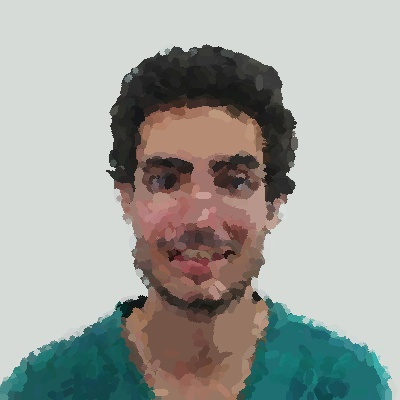
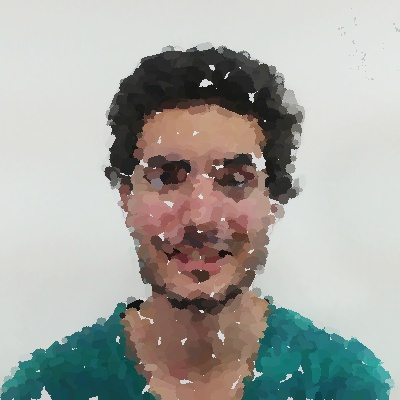
camera control

diff --git a/VisualFeedback/VisualFeedback/CameraControl.cpp b/VisualFeedback/VisualFeedback/CameraControl.cpp
@@ -1,0 +1,59 @@
+#include "FuncDeclaration.h"
+
+//static void onMouse(int event, int x, int y, int f, void* userdata){
+//	if (event == CV_EVENT_LBUTTONDOWN){
+//		mousePosition.x = x;
+//		mousePosition.y = y;
+//	}
+//	else if (event == CV_EVENT_RBUTTONDOWN){
+//		mousePosition.x = x;
+//		mousePosition.y = y;
+//		rgb2cmyk(targetBGR, targetCMYK);
+//		targetBGR = captureImage.at<Vec3b>(y, x);
+//		rgb2cmyk(targetBGR, targetCMYK);
+//	}
+//}
+
+void CaptureFrame(Mat & detectImg){
+	VideoCapture captureDevice;
+	captureDevice.open(0);
+	if (!captureDevice.isOpened()){
+		cout << "Camera not found!";
+	}
+	else{
+		char kbCmd = ' ';
+		captureDevice >> detectImg;
+		int w = detectImg.cols, h = detectImg.rows;
+		bool finish = false;
+		while (!finish){
+			captureDevice >> detectImg;
+			detectImg = detectImg(Rect(120, 40, 400, 400));
+
+			imshow("Capture", detectImg);
+			cvWaitKey(33);
+			if (_kbhit()) kbCmd = _getche();
+			if (kbCmd == 'c') break;
+		}
+		destroyAllWindows();
+	}
+	//VideoCapture captureDevice;
+	//captureDevice.open(0);
+	//if (!captureDevice.isOpened()){
+	//	cout << "Camera not found!";
+	//}
+	//else{
+	//	char kbCmd = ' ', name[30];
+	//	captureDevice >> captureImage;
+	//	int w = captureImage.cols, h = captureImage.rows;
+	//	bool finish = false;
+	//	while (!finish){
+	//		setMouseCallback(window_name, onMouse, 0);
+	//		captureDevice >> captureImage;
+	//		finish = DisplayInfo(captureImage);
+
+	//		if (_kbhit()) kbCmd = _getche();
+	//		if (kbCmd == 'c') break;
+	//	}
+	//	destroyAllWindows();
+	//}
+}

diff --git a/VisualFeedback/VisualFeedback/ColorFeedback.cpp b/VisualFeedback/VisualFeedback/ColorFeedback.cpp
@@ -15,7 +15,7 @@ void rgb2cmyk(const Vec3b bgr, int * cmyk) {
 	cmyk[3] = k * 255.;
 }
 
-void colorDiffer(const Mat target, const Mat detect, vector<Point> & drawPoints, float iteration) {
+void colorDiffer(const Mat target, Mat detect, vector<Point> & drawPoints, float iteration) {
 
 	// rgb to cmyk
 	Mat differMap = target.clone();
@@ -25,16 +25,18 @@ void colorDiffer(const Mat target, const Mat detect, vector<Point> & drawPoints,
 			int detectCMYK[4];
 			rgb2cmyk(target.at<Vec3b>(y, x), targetCMYK);
 			rgb2cmyk(detect.at<Vec3b>(y, x), detectCMYK);
-			ArrayXXf differ(1, 3);
-			differ << abs(targetCMYK[0] - detectCMYK[0]), abs(targetCMYK[1] - detectCMYK[1]), abs(targetCMYK[2] - detectCMYK[2]);
+			ArrayXXf differ(1, 4);
+			differ << abs(targetCMYK[0] - detectCMYK[0]), abs(targetCMYK[1] - detectCMYK[1]), abs(targetCMYK[2] - detectCMYK[2]), abs(targetCMYK[3] - detectCMYK[3]);
 			if (differ.maxCoeff() > DRAWTHRESH / iteration){
 				circle(differMap, Point(x, y), 0, Scalar(0, 0, differ.maxCoeff()));
 				drawPoints.push_back(Point(x, y));
 			}
+			else if (iteration == 1){
+				detect.at<Vec3b>(y, x) = target.at<Vec3b>(y, x);
+			}
 		}
 	}
 	cout << "Number of total draw points: " << drawPoints.size() << endl;
-	imshow("", differMap);
-	waitKey(0);
+	ShowImg("", differMap);
 
 }

diff --git a/VisualFeedback/VisualFeedback/FuncDeclaration.h b/VisualFeedback/VisualFeedback/FuncDeclaration.h
@@ -14,11 +14,14 @@ void ShowImg(string window_name, Mat img);
 
 
 // Color Feedback
-void colorDiffer(const Mat target, const Mat detect, vector<Point> & drawPoints, float iteration);
-
+void colorDiffer(const Mat target, Mat detect, vector<Point> & drawPoints, float iteration);
+void rgb2cmyk(const Vec3b bgr, int * cmyk);
 
 // Strokes Generation
 void EMapConstruct(Mat img, Mat & edgeMap, Mat & angles);
 void SobelDetection(Mat src, Mat & grad, Mat & angles);
 void CannyDetection(Mat src, Mat &canny);
 void StrokesGeneration(const Mat img, Mat & canvas, const vector<Point> drawPoints, const Mat edgeMap, const Mat angles, float iteration);
+
+// Camera Control
+void CaptureFrame(Mat & detectImg);

diff --git a/VisualFeedback/VisualFeedback/Main.cpp b/VisualFeedback/VisualFeedback/Main.cpp
@@ -3,9 +3,26 @@
 
 int main(int argc, const char** argv)
 {	
+	//// *********************
+	////     Target color
+	//// *********************
+	Mat colorPatch = imread("color_patch2.jpg");
+	//imshow("targetRGB",targetRGB);
+	//waitKey(0);
+
+	//targetBGR = colorPatch.at<Vec3b>(0, 0);
+	//rgb2cmyk(targetBGR, targetCMYK);
+	
+
 	// Read Data
 	Mat targetImg = imread("colorImgAlexis.jpg");
 	Mat detectImg = imread("OriginColorSegment.jpg");
+
+	CaptureFrame(detectImg);
+
+#if SAVE
+	imwrite("Image/Origin.jpg", detectImg);
+#endif
 
 	// Construct Energy Map
 	Mat edgeMap, angles;
